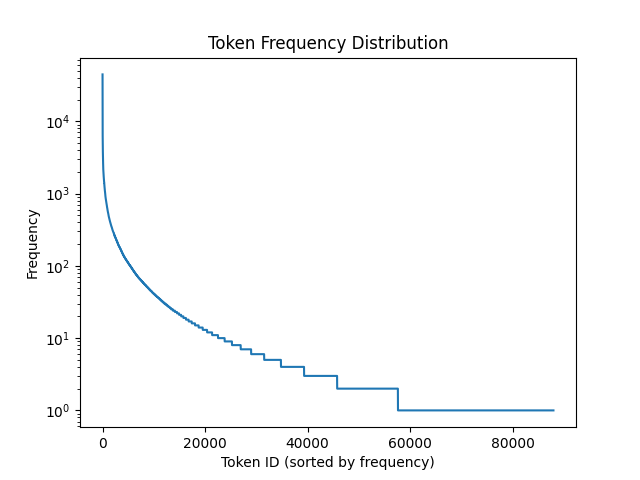
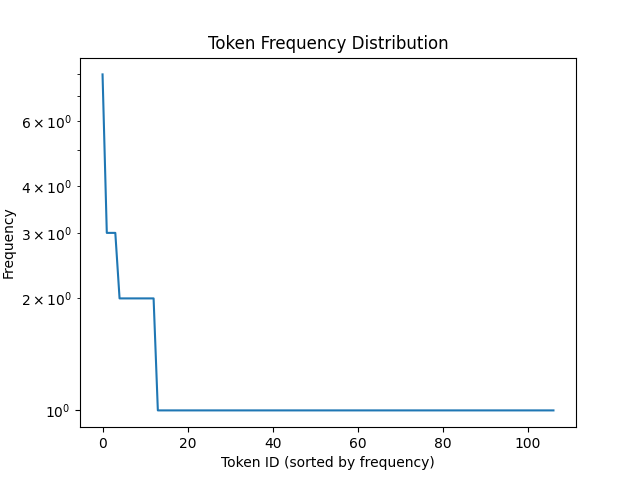
Part 2.2 progress

diff --git a/assignment1/build_freq_vectors.py b/assignment1/build_freq_vectors.py
@@ -1,4 +1,6 @@
 
+import token
+import tokenize
 from datasets import load_dataset
 from Vocabulary import Vocabulary
 import matplotlib.pyplot as plt
@@ -21,6 +23,8 @@ logging.basicConfig(
 class UnimplementedFunctionError(Exception):
     pass
 
+np.seterr(divide='ignore', invalid='ignore')
+
 
 ###########################
 ## TASK 2.2              ##
@@ -41,8 +45,24 @@ def compute_cooccurrence_matrix(corpus, vocab):
 
         """ 
 
-    # REMOVE THIS ONCE YOU IMPLEMENT THIS FUNCTION
-    raise UnimplementedFunctionError("You have not yet implemented compute_count_matrix.")
+    N = vocab.size
+    C = np.zeros(shape=(N, N))
+    print(N, C.shape)
+    k = 3
+    
+    for line in corpus:
+        tokens = vocab.tokenize(line)
+        
+        for i in range(k, len(tokens) - k):
+            i_word = vocab.word2idx[tokens[i]]
+            
+            for j in range(i - k, i + k):
+                j_word = vocab.word2idx[tokens[j]]
+                C[i_word, j_word] += 1
+    
+    print("Is there any nan in Cooccurrence: ", np.any(np.isnan(C)))
+    return C
+    
     
 
 ###########################
@@ -62,11 +82,21 @@ def compute_ppmi_matrix(corpus, vocab):
         :returns: 
         - PPMI: a N x N matrix where the i,j'th entry is the estimated PPMI from the corpus between token i and j in the vocabulary
 
-        """ 
+    """ 
 
-    # REMOVE THIS ONCE YOU IMPLEMENT THIS FUNCTION
-    raise UnimplementedFunctionError("You have not yet implemented compute_ppmi_matrix.")
+    N = vocab.size
+    C = compute_cooccurrence_matrix(corpus, vocab)
+    print("Is there any nan in PPMI: ", np.any(np.isnan(C)))
+    
+    eps = 0.00001
 
+    PPMI = np.zeros(shape=(N, N))
+    for i in range(N):
+        for j in range(N):
+            PPMI[i, j] = max(0, np.log(((C[i, j] + eps) * N) / ((C[i, i] + eps) * (C[j, j] + eps))))
+
+    print("Is there any nan in PPMI return: ", np.any(np.isnan(PPMI)))
+    return PPMI
 
     
 
@@ -82,7 +112,7 @@ def main_freq():
 
 
     logging.info("Building vocabulary")
-    vocab = Vocabulary(dataset_text)
+    vocab = Vocabulary(dataset_text[:5])
     vocab.make_vocab_charts()
     plt.close()
     plt.pause(0.01)
@@ -129,6 +159,7 @@ def plot_word_vectors_tsne(word_vectors, vocab):
             va='bottom',
             fontsize=5)
     plt.show()
+    plt.savefig("word_vecotrs", format='pdf')
 
 
 if __name__ == "__main__":

diff --git a/assignment1/Vocabulary.py b/assignment1/Vocabulary.py
@@ -83,20 +83,21 @@ class Vocabulary:
         freq = defaultdict(int)
 
         word2idx["UNK"] = 0
-        idx2word["UNK"] = 0
+        idx2word[0] = "UNK"
         
         idx = 1
-        for string in corpus:
-            tokens = self.tokenize(string)
+        for line in corpus:
+            tokens = self.tokenize(line)
             for token in tokens:
                 if token not in word2idx:
                    word2idx[token] = idx
-                   idx2word[token] = idx
+                   idx2word[idx] = token
                    idx += 1
                 
                 freq[token] += 1
         
-        
+        # print(word2idx)
+        # print(idx2word)
         return word2idx, idx2word, freq    
         
 
